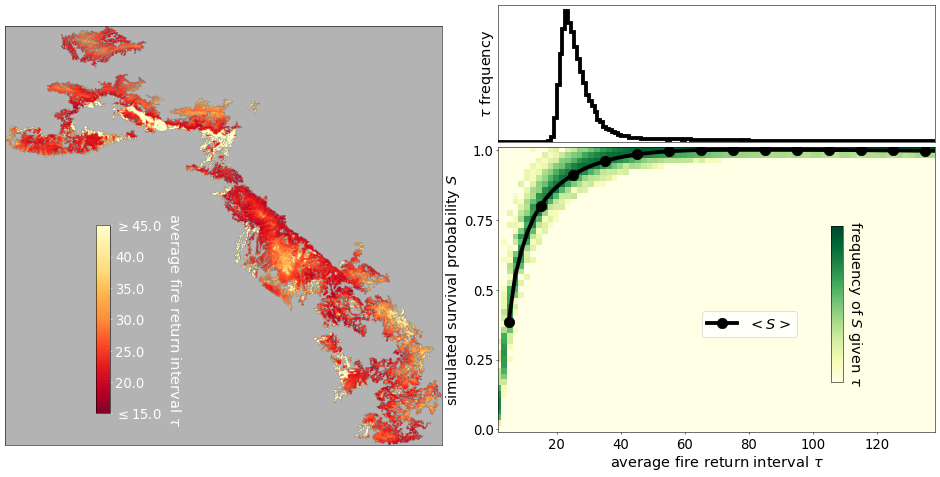
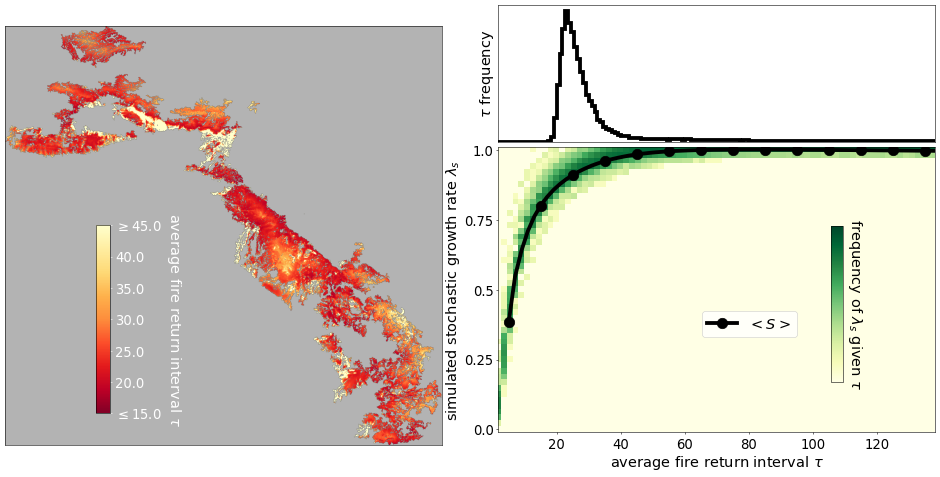
Update results (finer uncertainty sampling)

Changed region(s): [[0.4628, 0.3522, 0.4936, 0.8805], [0.8947, 0.4696, 0.9255, 0.8218]]

diff --git a/sensitivity/makefig.py b/sensitivity/makefig.py
@@ -28,7 +28,7 @@ tau_vec = b_vec * gamma(1+1/c)
 tau_step = np.diff(tau_vec)[0] / 2
 tau_edges = np.concatenate(([0], np.arange(tau_step/2, tau_vec[-1]+tau_step, tau_step)))
 tauc_methods = ["flat"]
-C_i_vec = [2]
+C_i_vec = [4]
 results_pre = 'gte_thresh' 
 #results_pre = 'distribution_avg' 
 
@@ -138,7 +138,10 @@ else:
     axes[0,0].set_xlim(0.83,1.01)
     axes[0,0].set_xlabel(rf"average stochastic growth rate {mlab}")
 # Fill in area gte thresh
-thresh = 0.5
+if metric == 'P_s':
+    thresh = 0.5
+elif metric == 'lambda_s':
+    thresh = 0.95
 bin_i = np.argmin(np.abs(bin_edges - thresh))
 axes[0,0].hist(metric_interp[metric_interp >= bin_edges[bin_i]], bins=bin_edges, color=color, 
                histtype='bar', alpha=0.6);
@@ -265,7 +268,8 @@ all_markers = ['o','^','D','s','H','*']
 all_linestyles = ['dotted', 'dashdot', 'dashed', 'solid']
 #C_i_samples = [1,5,9]
 #C_i_samples = [1,3,6,9,11]
-C_i_samples = [0,1,2,3,4]
+#C_i_samples = [0,1,2,3,4]
+C_i_samples = [i for i in range(C_vec.size)][::2]
 for line_i, C_i in enumerate(C_i_samples):
     plot_vec = np.ones(len(rob_thresh_vec)) * np.nan
     c_vec = np.ones(len(rob_thresh_vec)) * np.nan
@@ -357,12 +361,16 @@ cbar_ax = inset_axes(ax3, width="5%", height="50%", loc='center',
                      bbox_transform=ax3.transAxes, borderpad=0)
 sm = cm.ScalarMappable(cmap=cmap, norm=norm)
 cbar = fig.colorbar(sm, cax=cbar_ax, orientation="vertical", ticks=[0, 0.25, 0.5, 0.75, 1.])
-cbar.set_label(rf'frequency of $S$ given ${{\tau}}$', rotation=-90, labelpad=cbar_lpad)
 
 S_samples = np.linspace(0, 1, 5)
 yticks = (imshow_mat.shape[0] - 1) * S_samples
 ax3.set_yticks(yticks, labels=np.flip(S_samples));
-ax3.set_ylabel(rf'simulated survival probability $S$')
+if metric == 'P_s':
+    cbar.set_label(rf'frequency of $S$ given ${{\tau}}$', rotation=-90, labelpad=cbar_lpad)
+    ax3.set_ylabel(rf'simulated survival probability $S$')
+elif metric == 'lambda_s':
+    cbar.set_label(rf'frequency of $\lambda_s$ given ${{\tau}}$', rotation=-90, labelpad=cbar_lpad)
+    ax3.set_ylabel(rf'simulated stochastic growth rate $\lambda_s$')
 ax3.set_ylim(np.array([imshow_mat.shape[0], 0]) - 0.5)
 tau_samples = np.arange(20, 140, 20).astype(int)
 xticks = tau_samples / (tau_step*2)

diff --git a/sensitivity/phase.py b/sensitivity/phase.py
@@ -23,15 +23,15 @@ constants['min_tau'] = 2
 constants['A_cell'] = 270**2 / 1e6 #km^2
 constants['plotting_tau_bw_ratio'] = 30 #For binning initial tau (with uncertainty) in phase slice plots
 constants['tauc_baseline'] = 200 #years, max(tauc) possible at min(ncell) given C
-#constants['ncell_samples'] = 30
-constants['ncell_samples'] = 15
+constants['ncell_samples'] = 20
+#constants['ncell_samples'] = 15
+constants['slice_samples'] = 40
 #constants['slice_samples'] = 30
-constants['slice_samples'] = 30
 constants['baseline_A_min'] = 10 #km^2
-#constants['baseline_A_max'] = 160 * 2.0043963553530753
-constants['baseline_A_max'] = (160 * 2.0043963553530753) * 2
-#constants['baseline_A_samples'] = 20
-constants['baseline_A_samples'] = 5
+constants['baseline_A_max'] = 160 * 2.0043963553530753
+#constants['baseline_A_max'] = (160 * 2.0043963553530753) * 2
+constants['baseline_A_samples'] = 9
+#constants['baseline_A_samples'] = 5
 constants['root'] = 0 #For mpi
 constants.update({'final_max_tau': np.nan})
 constants['overwrite_results'] = True
@@ -46,10 +46,14 @@ metrics = ["lambda_s"]
 tauc_methods = ["flat"]
 
 # Define uncertainty axes (and save under metric folder later)
-mu_tau_vec = np.linspace(-10, 0, 4)
-sigm_tau_vec = np.linspace(0, 10, 3)
-mu_tauc_vec = np.linspace(-10, 0, 4)
-sigm_tauc_vec = np.linspace(0, 10, 3)
+mu_tau_vec = np.linspace(-10, 0, 9)
+sigm_tau_vec = np.linspace(0, 10, 7)
+mu_tauc_vec = np.linspace(-10, 0, 9)
+sigm_tauc_vec = np.linspace(0, 10, 7)
+#mu_tau_vec = np.linspace(-10, 0, 4)
+#sigm_tau_vec = np.linspace(0, 10, 3)
+#mu_tauc_vec = np.linspace(-10, 0, 4)
+#sigm_tauc_vec = np.linspace(0, 10, 3)
 #mu_tau_vec = np.linspace(0, 0, 1)
 #sigm_tau_vec = np.linspace(0, 0, 1)
 #mu_tauc_vec = np.linspace(0, 0, 1)

diff --git a/sensitivity/postprocess.py b/sensitivity/postprocess.py
@@ -23,10 +23,10 @@ tau_vec = b_vec * gamma(1+1/c)
 tau_step = np.diff(tau_vec)[0] / 2
 tau_edges = np.concatenate(([0], np.arange(tau_step/2, tau_vec[-1]+tau_step, tau_step)))
 tauc_methods = ["flat"]
-C_i_vec = [2] # For generation of cell metric data
+C_i_vec = [4] # For generation of cell metric data
 results_pre_labs = ['gte_thresh']
 #results_pre_labs = ['distribution_avg']
-overwrite_robustness = True
+overwrite_robustness = False
 overwrite_cellmetric = True
 
 # Function to read in things specific to given results as global variables
